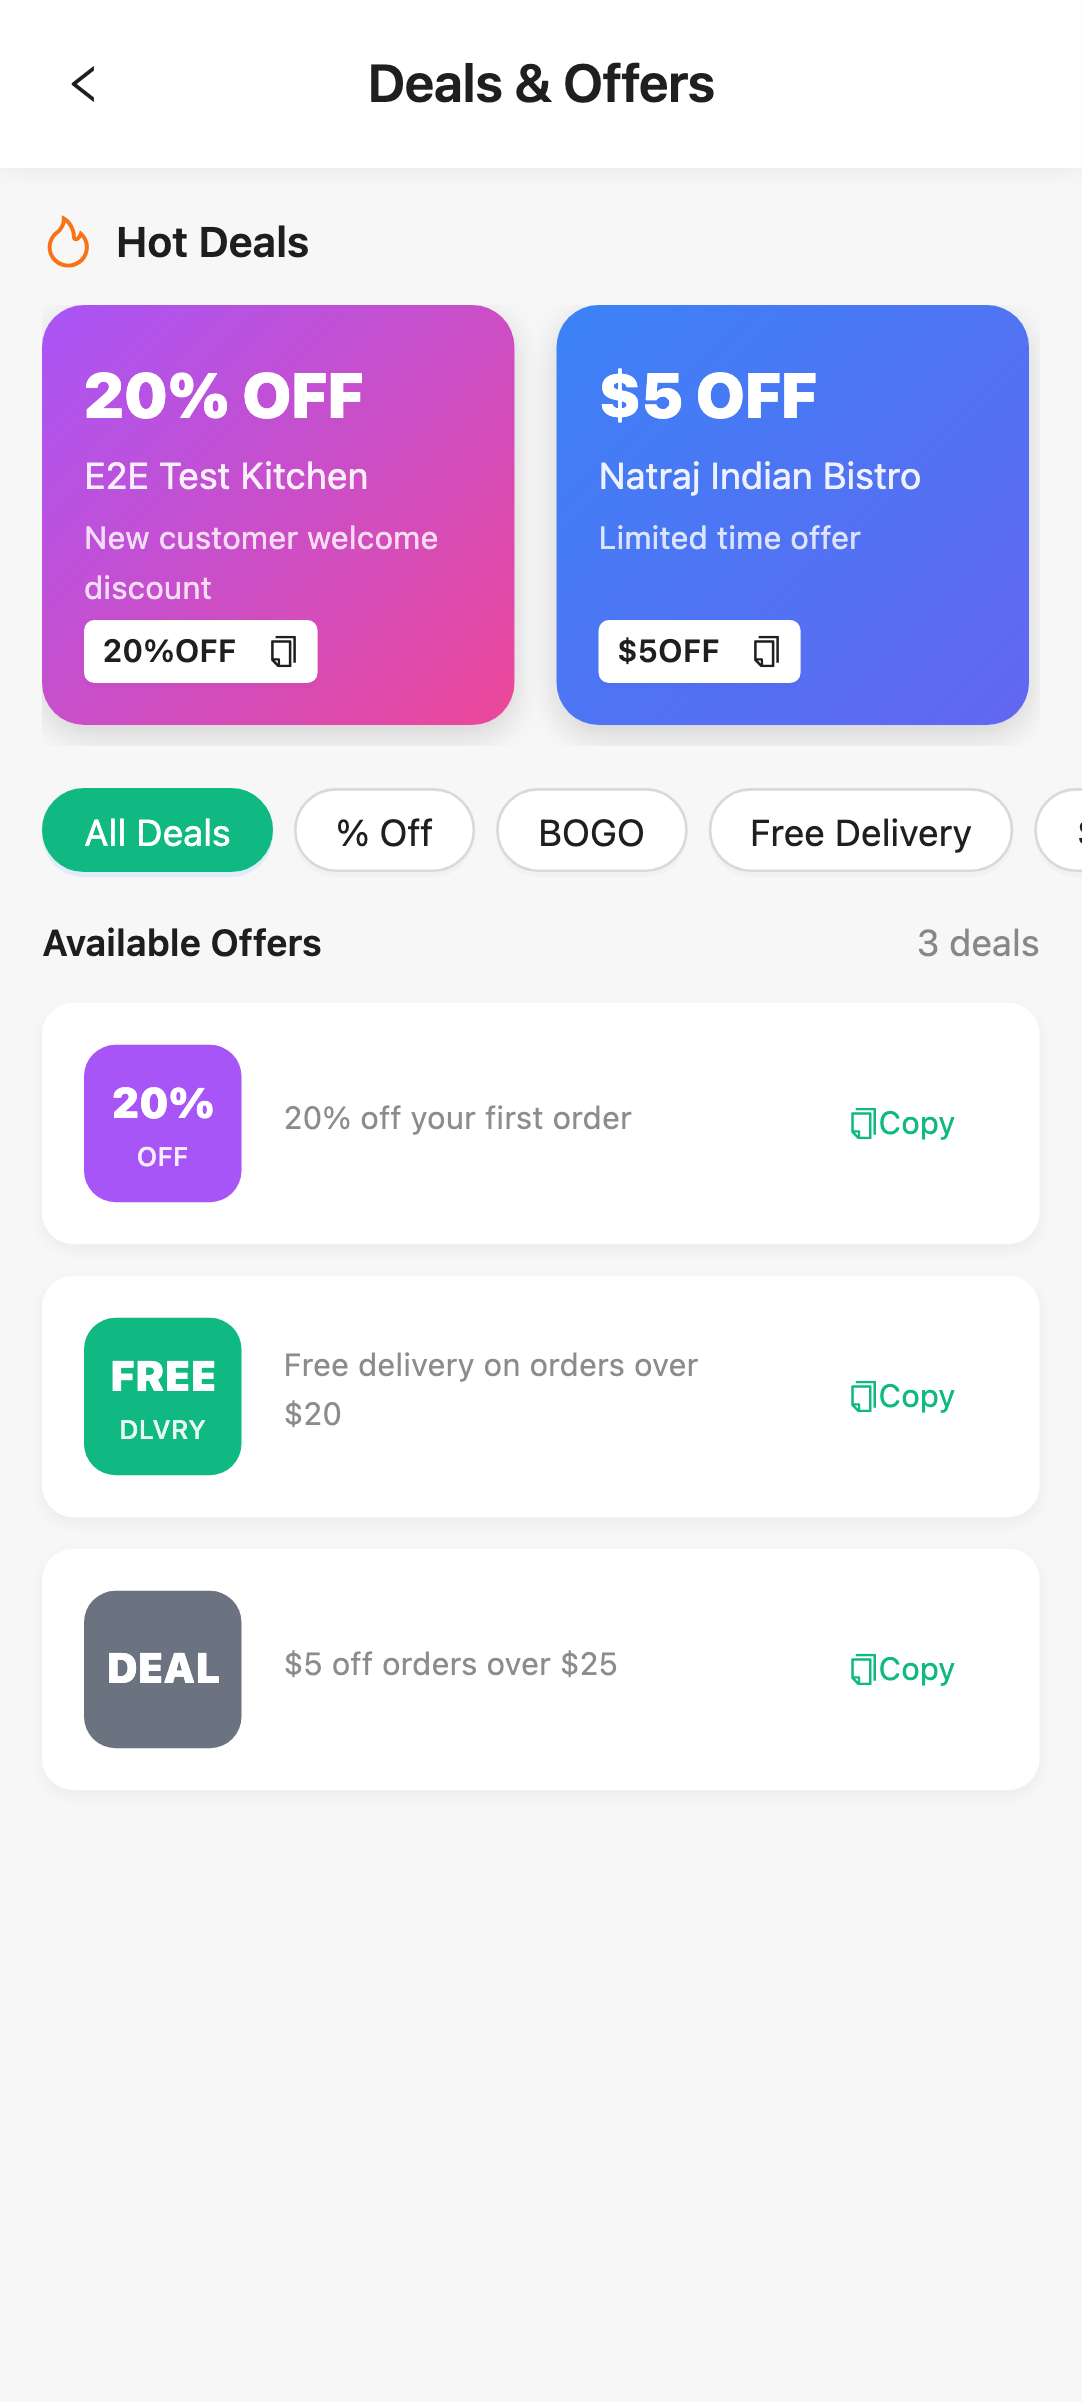
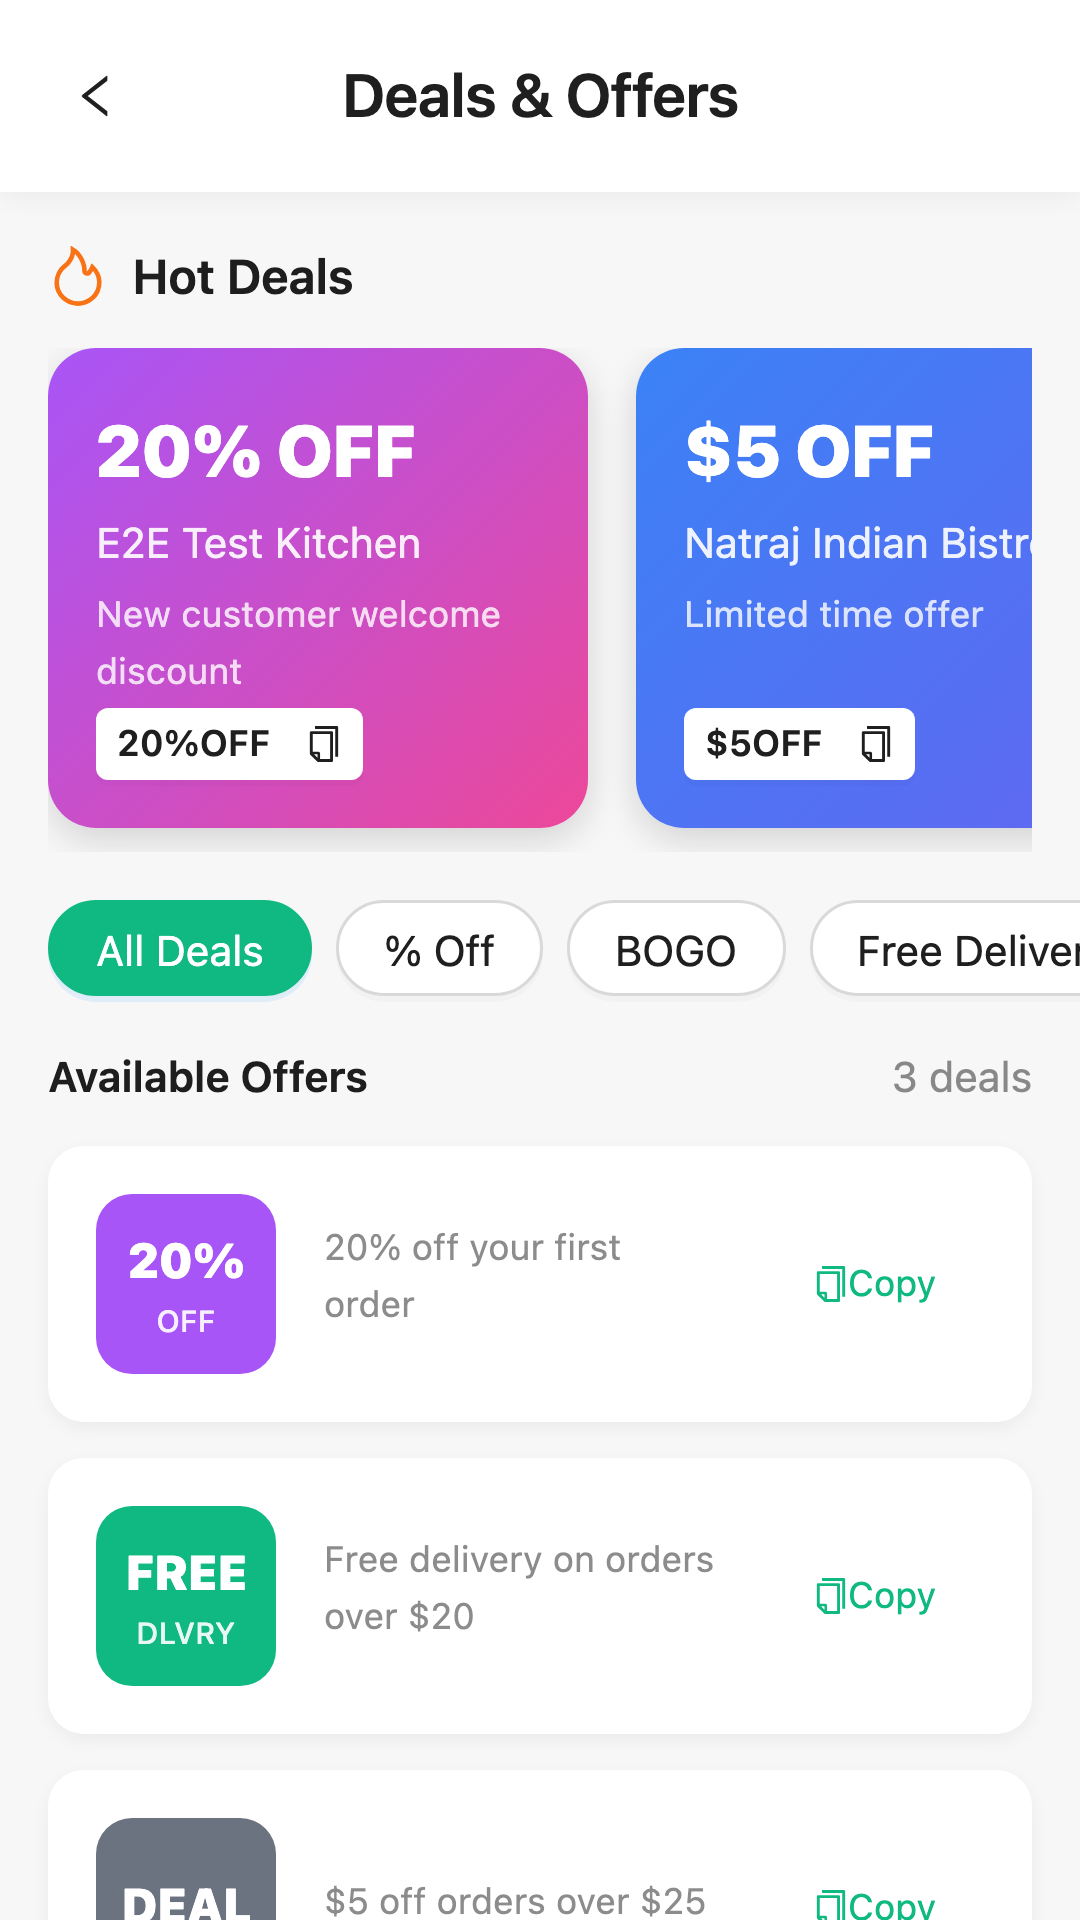
fix: Update screenshots to meet Play Store requirements
- Changed dimensions from 1082x2402 to 1080x1920 (9:16 aspect ratio)
- Fixed blank driver/02-orders screenshot (now 02-dashboard)
- Removed duplicate partner screenshots
- Removed old screenshots with wrong aspect ratio
- Updated capture script with correct viewport settings

Final inventory:
- Customer: 5 screenshots (1080x1920)
- Driver: 5 screenshots (1080x1920)
- Partner: 2 screenshots (1080x1920)

All screenshots now meet Google Play Store requirements:
- Aspect ratio: 9:16 ✓
- Dimensions: 1080x1920 ✓
- Format: PNG 24-bit ✓

diff --git a/apps/android/store-assets/capture-screenshots.js b/apps/android/store-assets/capture-screenshots.js
@@ -1,0 +1,102 @@
+const { chromium } = require('playwright');
+const path = require('path');
+const fs = require('fs');
+
+const BASE_URL = 'https://www.dollor.ai';
+
+// Play Store phone dimensions (1080x1920 is standard, but we'll use 412x915 viewport which scales to that)
+const PHONE_VIEWPORT = { width: 412, height: 915, deviceScaleFactor: 2.625 };
+
+// Screenshot configurations for each app
+const screenshots = {
+  customer: [
+    { name: '01-home', url: '/', waitFor: '.landing-page, .hero-section, h1' },
+    { name: '02-restaurants', url: '/customer/restaurants', waitFor: '.restaurant-card, .restaurant-list, .MuiCard-root' },
+    { name: '03-deals', url: '/customer/deals', waitFor: '.deals, .deal-card, h1' },
+    { name: '04-ride-booking', url: '/customer/rides', waitFor: '.ride-booking, .map, h1' },
+    { name: '05-login', url: '/customer/login', waitFor: 'form, input, button' },
+  ],
+  driver: [
+    { name: '01-login', url: '/driver/login', waitFor: 'form, input, button' },
+    { name: '02-available-orders', url: '/driver/orders', waitFor: '.order-card, .available-orders, h1' },
+    { name: '03-bidding', url: '/driver/bidding', waitFor: '.bidding, .ride-request, h1' },
+    { name: '04-earnings', url: '/driver/earnings', waitFor: '.earnings, .dashboard, h1' },
+    { name: '05-profile', url: '/driver/profile', waitFor: '.profile, form, h1' },
+  ],
+  partner: [
+    { name: '01-login', url: '/vendor/login', waitFor: 'form, input, button' },
+    { name: '02-dashboard', url: '/vendor/dashboard', waitFor: '.dashboard, .orders, h1' },
+    { name: '03-profile', url: '/vendor/profile', waitFor: '.profile, form, h1' },
+  ],
+  legal: [
+    { name: 'privacy', url: '/privacy', waitFor: 'h1' },
+    { name: 'terms', url: '/terms', waitFor: 'h1' },
+    { name: 'refund', url: '/refund', waitFor: 'h1' },
+  ]
+};
+
+async function captureScreenshots() {
+  const browser = await chromium.launch({ headless: true });
+
+  for (const [appType, screens] of Object.entries(screenshots)) {
+    const outputDir = path.join(__dirname, appType);
+
+    // Create directory if it doesn't exist
+    if (!fs.existsSync(outputDir)) {
+      fs.mkdirSync(outputDir, { recursive: true });
+    }
+
+    console.log(`\n📱 Capturing ${appType} screenshots...`);
+
+    for (const screen of screens) {
+      const context = await browser.newContext({
+        viewport: PHONE_VIEWPORT,
+        userAgent: 'Mozilla/5.0 (Linux; Android 13; Pixel 7) AppleWebKit/537.36 (KHTML, like Gecko) Chrome/120.0.0.0 Mobile Safari/537.36'
+      });
+
+      const page = await context.newPage();
+
+      try {
+        const url = `${BASE_URL}${screen.url}`;
+        console.log(`  📸 ${screen.name}: ${url}`);
+
+        await page.goto(url, { waitUntil: 'networkidle', timeout: 30000 });
+
+        // Wait for content to load
+        try {
+          await page.waitForSelector(screen.waitFor, { timeout: 5000 });
+        } catch (e) {
+          console.log(`    ⚠  Selector not found, capturing anyway...`);
+        }
+
+        // Additional wait for animations
+        await page.waitForTimeout(1000);
+
+        const filename = path.join(outputDir, `${screen.name}.png`);
+        await page.screenshot({
+          path: filename,
+          fullPage: false,
+          type: 'png'
+        });
+
+        console.log(`    ✅ Saved: ${filename}`);
+
+      } catch (error) {
+        console.log(`    ❌ Error: ${error.message}`);
+      }
+
+      await context.close();
+    }
+  }
+
+  await browser.close();
+
+  console.log('\n✅ Screenshot capture complete!');
+  console.log('\n📁 Screenshots saved to:');
+  console.log('   - store-assets/customer/');
+  console.log('   - store-assets/driver/');
+  console.log('   - store-assets/partner/');
+  console.log('   - store-assets/legal/');
+}
+
+captureScreenshots().catch(console.error);

diff --git a/apps/android/store-assets/capture-screenshots.py b/apps/android/store-assets/capture-screenshots.py
@@ -2,6 +2,12 @@
 """
 Play Store Screenshot Capture Script
 Captures mobile-optimized screenshots for Dollor.ai apps
+
+Google Play Store Requirements:
+- Aspect ratio: 16:9 to 9:16 (we use 9:16 = 1080x1920)
+- Min dimension: 320px
+- Max dimension: 3840px
+- Format: JPEG or 24-bit PNG
 """
 
 import os
@@ -11,30 +17,30 @@ from playwright.async_api import async_playwright
 BASE_URL = 'https://www.dollor.ai'
 SCRIPT_DIR = os.path.dirname(os.path.abspath(__file__))
 
-# Play Store phone dimensions (1080x1920 output at 2.625x scale)
-PHONE_VIEWPORT = {'width': 412, 'height': 915}
-DEVICE_SCALE = 2.625
+# Play Store phone dimensions - exactly 1080x1920 (9:16 aspect ratio)
+PHONE_VIEWPORT = {'width': 360, 'height': 640}
+DEVICE_SCALE = 3.0  # 360*3=1080, 640*3=1920
 
-# Screenshot configurations
+# Screenshot configurations - updated with better pages
 SCREENSHOTS = {
     'customer': [
-        {'name': '01-home', 'url': '/', 'wait': 2000},
-        {'name': '02-restaurants', 'url': '/customer/restaurants', 'wait': 3000},
-        {'name': '03-deals', 'url': '/customer/deals', 'wait': 2000},
-        {'name': '04-rides', 'url': '/customer/rides', 'wait': 2000},
+        {'name': '01-home', 'url': '/', 'wait': 3000},
+        {'name': '02-restaurants', 'url': '/customer/restaurants', 'wait': 4000},
+        {'name': '03-deals', 'url': '/customer/deals', 'wait': 3000},
+        {'name': '04-rides', 'url': '/customer/rides', 'wait': 3000},
         {'name': '05-login', 'url': '/customer/login', 'wait': 2000},
     ],
     'driver': [
-        {'name': '01-login', 'url': '/driver/login', 'wait': 2000},
-        {'name': '02-orders', 'url': '/driver/orders', 'wait': 3000},
-        {'name': '03-bidding', 'url': '/driver/bidding', 'wait': 2000},
-        {'name': '04-earnings', 'url': '/driver/earnings', 'wait': 2000},
-        {'name': '05-profile', 'url': '/driver/profile', 'wait': 2000},
+        {'name': '01-login', 'url': '/driver/login', 'wait': 3000},
+        {'name': '02-dashboard', 'url': '/driver/dashboard', 'wait': 4000},
+        {'name': '03-bidding', 'url': '/driver/bidding', 'wait': 3000},
+        {'name': '04-earnings', 'url': '/driver/earnings', 'wait': 3000},
+        {'name': '05-profile', 'url': '/driver/profile', 'wait': 3000},
     ],
     'partner': [
-        {'name': '01-login', 'url': '/vendor/login', 'wait': 2000},
-        {'name': '02-dashboard', 'url': '/vendor/dashboard', 'wait': 3000},
-        {'name': '03-profile', 'url': '/vendor/profile', 'wait': 2000},
+        {'name': '01-login', 'url': '/vendor/login', 'wait': 3000},
+        {'name': '02-dashboard', 'url': '/vendor/dashboard', 'wait': 4000},
+        {'name': '03-settings', 'url': '/vendor/settings', 'wait': 3000},
     ],
 }
 
@@ -64,13 +70,26 @@ async def capture_screenshots():
                     url = f"{BASE_URL}{screen['url']}"
                     print(f"  📸 {screen['name']}: {url}")
 
-                    await page.goto(url, wait_until='networkidle', timeout=30000)
+                    await page.goto(url, wait_until='networkidle', timeout=45000)
+
+                    # Wait for content to load
                     await page.wait_for_timeout(screen['wait'])
+
+                    # Scroll slightly to trigger lazy loading
+                    await page.evaluate('window.scrollBy(0, 100)')
+                    await page.wait_for_timeout(500)
+                    await page.evaluate('window.scrollTo(0, 0)')
+                    await page.wait_for_timeout(500)
 
                     filename = os.path.join(output_dir, f"{screen['name']}.png")
                     await page.screenshot(path=filename, full_page=False, type='png')
 
-                    print(f"    ✅ Saved: {filename}")
+                    # Verify file size (blank images are very small)
+                    file_size = os.path.getsize(filename)
+                    if file_size < 50000:  # Less than 50KB is suspicious
+                        print(f"    ⚠  Warning: Small file size ({file_size} bytes) - may be blank")
+                    else:
+                        print(f"    ✅ Saved: {filename} ({file_size // 1024}KB)")
 
                 except Exception as e:
                     print(f"    ❌ Error: {str(e)}")
@@ -83,6 +102,9 @@ async def capture_screenshots():
     print('\n📁 Screenshots saved to:')
     for app_type in SCREENSHOTS.keys():
         print(f'   - store-assets/{app_type}/')
+
+    print('\n📐 Dimensions: 1080x1920 (9:16 aspect ratio)')
+    print('✓ Meets Google Play Store requirements')
 
 
 if __name__ == '__main__':
